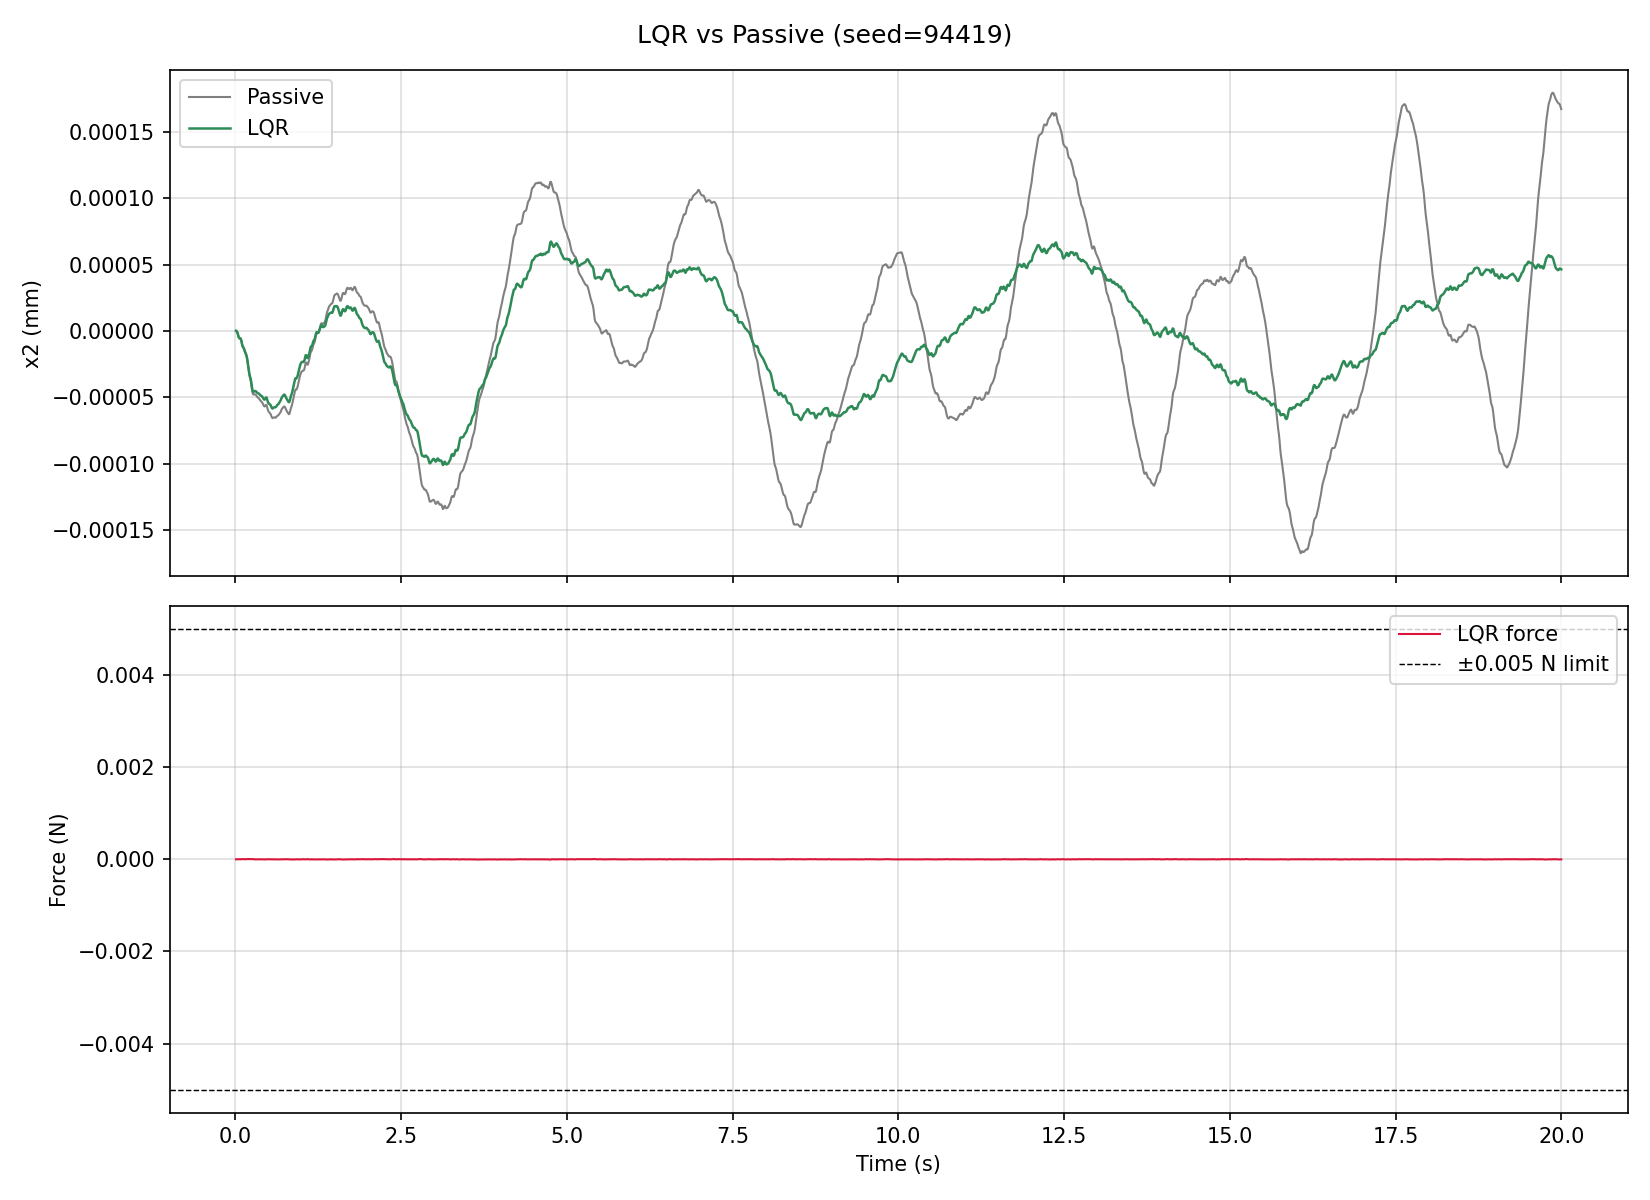
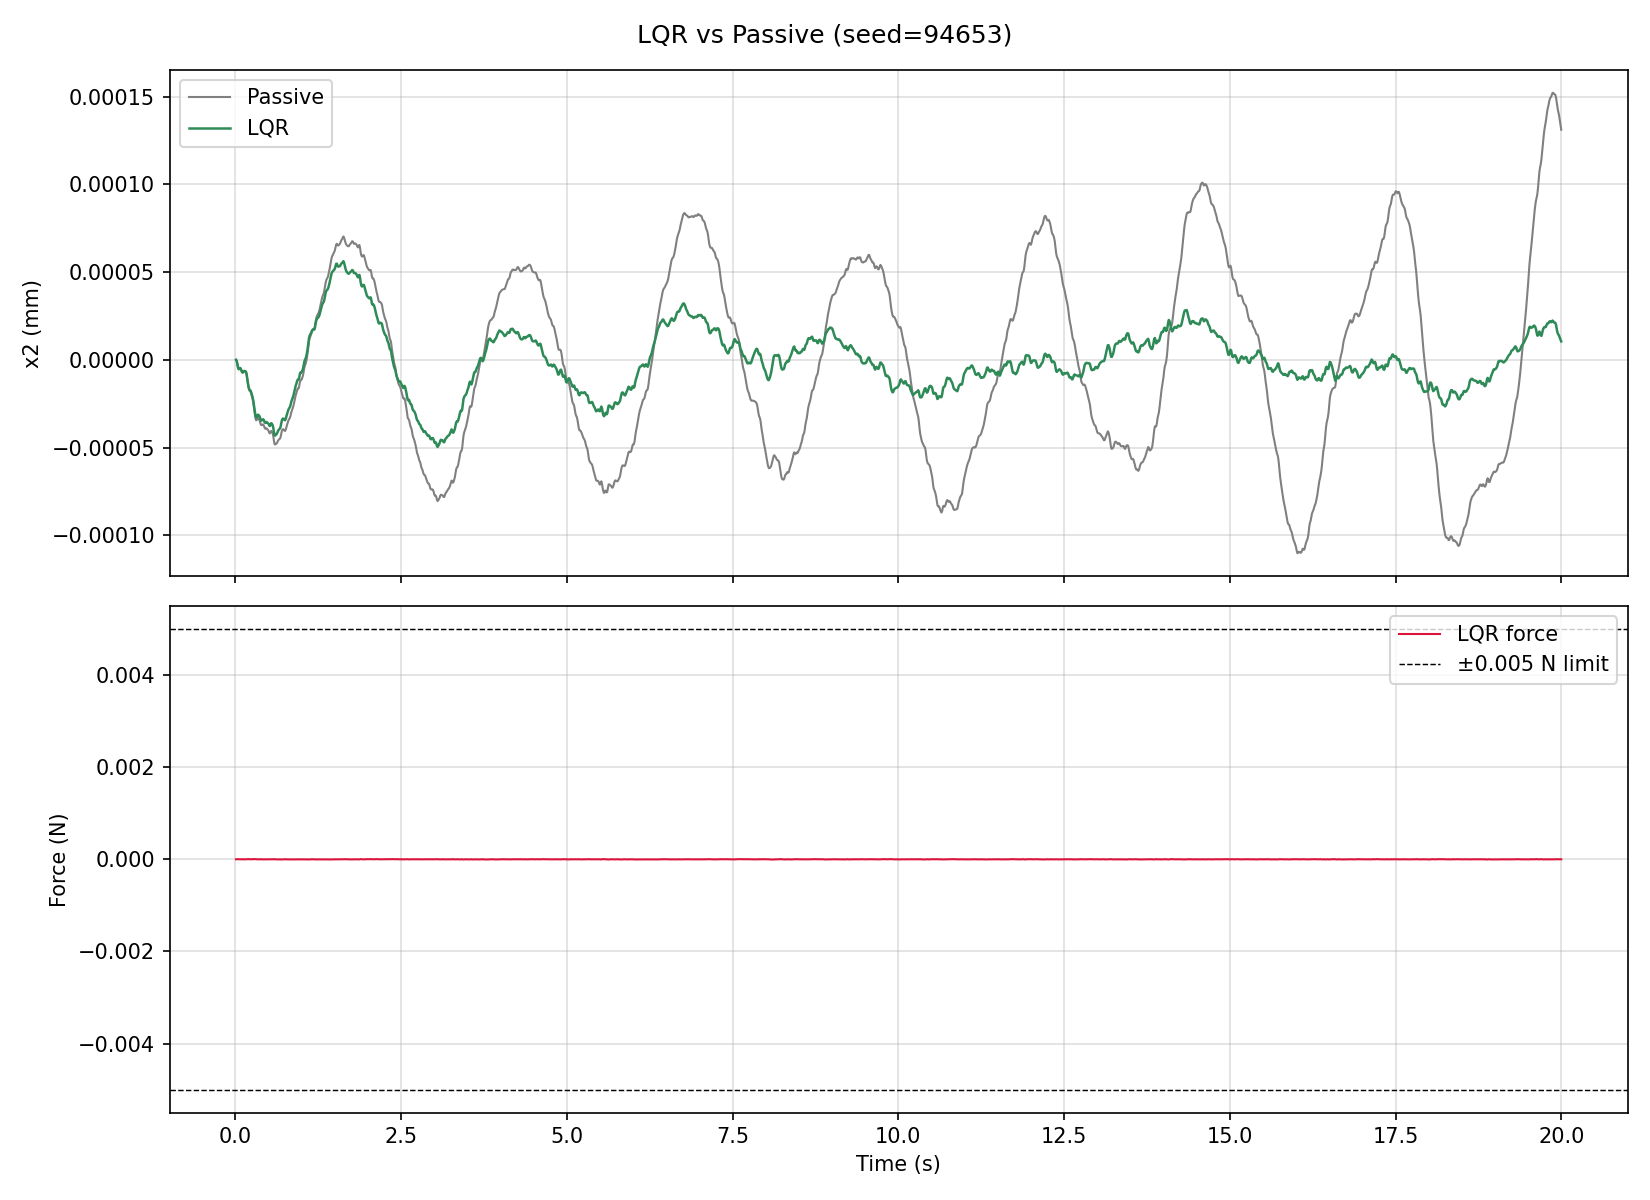
Restored RL stack from 56fd47e

diff --git a/src/pendulum_sim/rl_env.py b/src/pendulum_sim/rl_env.py
@@ -6,7 +6,6 @@ import gymnasium as gym
 from gymnasium import spaces
 import numpy as np
 
-import pendulum_sim.rl_config as rl_cfg
 from pendulum_sim.physics import L1, L2, Q_FACTOR, equations_of_motion, omega0
 from pendulum_sim.rl_config import (
     BAND_HIGH_MAX_HZ,
@@ -22,6 +21,7 @@ from pendulum_sim.rl_config import (
     REWARD_BASELINE_EPS,
     REWARD_FFT_WINDOW,
     REWARD_MIN_BASELINE,
+    REWARD_SCALE,
     STABILITY_MAX_RATIO,
 )
 from pendulum_sim.rl_helpers import (
@@ -31,12 +31,23 @@ from pendulum_sim.rl_helpers import (
     sample_noise_sequence,
 )
 
-# Backward-compatible fallback if local branch misses this config symbol.
-REWARD_CTRL_REF_ASD_CFG = float(getattr(rl_cfg, "REWARD_CTRL_REF_ASD", 1e-6))
-
 
 def _band_rms(signal: np.ndarray, dt: float, fmin: float, fmax: float) -> float:
-    """Return band-limited RMS via one-sided FFT bins."""
+    """Return band-limited RMS via one-sided FFT bins.
+
+    The mean is subtracted before the FFT. This is correct because:
+    - The 0–5 Hz displacement band uses fmin=0, which includes the f=0 bin.
+      The f=0 FFT coefficient equals N × mean(signal), so without mean
+      subtraction a tiny DC offset creates an enormous spike that dominates
+      the RMS and destabilises the reward gradient. The agent would exploit
+      this by applying constant force (zero cost in 10–30 Hz band) to fight
+      perceived DC drift, causing actuator saturation.
+    - For the 10–30 Hz control band, the DC force is zero anyway, so mean
+      subtraction has no effect there.
+    - The DC offset seen in earlier training runs was an artifact of the
+      zero-force local minimum, not a physics problem requiring a code fix.
+      It is addressed by the PPO hyperparameter changes (LOG_STD_INIT, ENT_COEF).
+    """
     if signal.size < 8:
         return 0.0
     x = np.asarray(signal, dtype=float) - float(np.mean(signal))
@@ -54,8 +65,13 @@ def _baseline_displacement_from_accel(
 ) -> float:
     """Estimate passive pendulum displacement RMS from ground acceleration spectrum.
 
-    Uses linearized pendulum transfer function:
-        x(ω) = a(ω) / sqrt((ω0² - ω²)² + (ω*ω0/Q)²)
+    Uses the linearised single-pendulum transfer function:
+
+        x_mirror(ω) = a(ω) / sqrt((ω_n² - ω²)² + (ω·ω_n/Q)²)
+
+    NOT the rigid-body formula x = a/ω², which overestimates passive displacement
+    by ~24x at 0.1 Hz and kills the reward gradient (err_ratio → 0.04).
+    This function gives err_ratio ≈ 1 for passive performance by construction.
     """
     if noise_acc.size < 8:
         return REWARD_BASELINE_EPS
@@ -68,7 +84,9 @@ def _baseline_displacement_from_accel(
         return REWARD_BASELINE_EPS
 
     omega = 2.0 * np.pi * freqs[mask]
-    tf_denom = np.sqrt((omega0**2 - omega**2) ** 2 + (omega * omega0 / Q_FACTOR) ** 2)
+    tf_denom = np.sqrt(
+        (omega0**2 - omega**2) ** 2 + (omega * omega0 / Q_FACTOR) ** 2
+    )
     tf_denom = np.maximum(tf_denom, 1e-12)
 
     fft_x = fft_a[mask] / tf_denom
@@ -83,7 +101,6 @@ class LIGOPendulumEnv(gym.Env):
         super().__init__()
         self.action_space = spaces.Box(low=-5.0, high=5.0, shape=(1,), dtype=np.float32)
         self.observation_space = spaces.Box(low=-np.inf, high=np.inf, shape=(4,), dtype=np.float32)
-
         self.dt = DT
         self.state = None
         self.current_step = 0
@@ -100,10 +117,35 @@ class LIGOPendulumEnv(gym.Env):
         return build_normalized_obs(self.state)
 
     def _compute_reward(self) -> float:
-        """Only the requested reward terms:
-        1) 0–5 Hz displacement minimization
-        2) 10–30 Hz force minimization
-        3) 5–10 Hz stability cost beyond 3x baseline
+        """Frequency-domain additive reward with stability guard.
+
+        Three independent terms — displacement and control gradients do not
+        interfere with each other, which prevents the zero-force local minimum
+        that arises from the fully multiplicative form.
+
+        1) Low-band (0–5 Hz): penalise x2 displacement RMS relative to passive
+           baseline.  err_ratio ≈ 1 at passive performance → -log1p(1) ≈ -0.693.
+           err_ratio < 1 (improvement) → less negative.
+
+        2) High-band (10–30 Hz): penalise control force RMS relative to F_MAX.
+           Pushes the agent to achieve suppression with minimal high-freq actuation.
+
+        3) Mid-band (5–10 Hz): stability guard — penalise if x2 exceeds
+           STABILITY_MAX_RATIO × passive baseline in this band.
+
+        Formula:
+            reward = REWARD_SCALE * (
+                -log1p(err_ratio²)
+                - log1p(ctrl_ratio²)
+                - stability_cost
+            )
+
+        Additive structure means each term has an independent gradient:
+        - Reducing displacement always improves the first term, regardless of
+          what the control term is doing.
+        - Reducing high-freq force always improves the second term.
+        - The agent cannot escape by zeroing force: zero force gives
+          err_ratio ≈ 1, so the first term is still -0.693, not 0.
         """
         n = min(len(self.x2_hist), REWARD_FFT_WINDOW)
         if n < 32:
@@ -117,16 +159,16 @@ class LIGOPendulumEnv(gym.Env):
         mid_x2 = _band_rms(x2, self.dt, BAND_MID_MIN_HZ, BAND_MID_MAX_HZ)
 
         err_ratio = low_x2 / max(self.baseline_low, REWARD_MIN_BASELINE, REWARD_BASELINE_EPS)
-        ctrl_ratio = high_u / max(REWARD_CTRL_REF_ASD_CFG, REWARD_BASELINE_EPS)
+        ctrl_ratio = high_u / max(F_MAX, REWARD_BASELINE_EPS)
 
-        # Required multiplicative form.
-        reward = -np.log1p(err_ratio**2) * np.log1p(ctrl_ratio**2)
+        # Additive: each term has an independent gradient.
+        reward = -np.log1p(err_ratio**2) - np.log1p(ctrl_ratio**2)
 
         mid_ratio = mid_x2 / max(self.baseline_mid, REWARD_MIN_BASELINE, REWARD_BASELINE_EPS)
         excess = max(0.0, mid_ratio / max(STABILITY_MAX_RATIO, 1e-9) - 1.0)
         stability_cost = np.log1p(excess**2)
 
-        return float(reward - stability_cost)
+        return float(REWARD_SCALE * (reward - stability_cost))
 
     def reset(self, seed=None, options=None):
         super().reset(seed=seed)
@@ -136,7 +178,6 @@ class LIGOPendulumEnv(gym.Env):
         self.state = np.array(
             options.get("initial_state", np.zeros(4, dtype=np.float32)), dtype=np.float32
         )
-
         self.current_step = 0
         self.x2_hist = []
         self.force_hist = []
@@ -151,6 +192,7 @@ class LIGOPendulumEnv(gym.Env):
         else:
             self.noise_seq = np.zeros(N_STEPS + 10, dtype=np.float32)
 
+        # Baselines use the pendulum TF, not rigid-body formula.
         self.baseline_low = _baseline_displacement_from_accel(
             self.noise_seq, self.dt, 0.0, BAND_LOW_MAX_HZ
         )

diff --git a/src/pendulum_sim/rl_config.py b/src/pendulum_sim/rl_config.py
@@ -27,7 +27,6 @@ BAND_HIGH_MAX_HZ = float(os.getenv("BAND_HIGH_MAX_HZ", "30.0"))
 REWARD_FFT_WINDOW = int(os.getenv("REWARD_FFT_WINDOW", "256"))
 REWARD_BASELINE_EPS = float(os.getenv("REWARD_BASELINE_EPS", "1e-12"))
 REWARD_MIN_BASELINE = float(os.getenv("REWARD_MIN_BASELINE", "1e-7"))
-REWARD_CTRL_REF_ASD = float(os.getenv("REWARD_CTRL_REF_ASD", "1e-6"))
 REWARD_SCALE = float(os.getenv("REWARD_SCALE", "0.01"))
 
 
@@ -47,8 +46,8 @@ PPO_N_STEPS = int(os.getenv("PPO_N_STEPS", "1024"))
 PPO_LEARNING_RATE = float(os.getenv("PPO_LEARNING_RATE", "1e-4"))
 PPO_GAMMA = float(os.getenv("PPO_GAMMA", "0.999"))
 PPO_GAE_LAMBDA = float(os.getenv("PPO_GAE_LAMBDA", "0.98"))
-PPO_ENT_COEF = float(os.getenv("PPO_ENT_COEF", "0.001"))     
-PPO_LOG_STD_INIT = float(os.getenv("PPO_LOG_STD_INIT", "-1.0"))  
+PPO_ENT_COEF = float(os.getenv("PPO_ENT_COEF", "0.0"))
+PPO_LOG_STD_INIT = float(os.getenv("PPO_LOG_STD_INIT", "-5.0"))
 
 # ---- retained run knobs ----
 NOISE_FREE_EP_PROB = REWARD.noise_free_ep_prob

diff --git a/src/pendulum_sim/rl_reporting.py b/src/pendulum_sim/rl_reporting.py
@@ -42,14 +42,13 @@ def write_rl_summary(eval_seed, rms_p, rms_r, improvement_x, reward_hist, run_re
 
 
 def maybe_refresh_docs() -> None:
-    """Run post-processing scripts relative to repository root."""
-    repo_root = Path(__file__).resolve().parents[2]
-    script = repo_root / "tools" / "tools_refresh_readme.py"
+    """Run lightweight post-processing scripts if present."""
+    script = Path("tools/tools_refresh_readme.py")
     if script.exists():
-        subprocess.run([sys.executable, str(script)], check=False, cwd=repo_root)
-    compare_script = repo_root / "tools" / "tools_compare_performance.py"
+        subprocess.run([sys.executable, str(script)], check=False)
+    compare_script = Path("tools/tools_compare_performance.py")
     if compare_script.exists():
-        subprocess.run([sys.executable, str(compare_script)], check=False, cwd=repo_root)
+        subprocess.run([sys.executable, str(compare_script)], check=False)
 
 
 def maybe_init_wandb():

diff --git a/src/pendulum_sim/rl_pipeline.py b/src/pendulum_sim/rl_pipeline.py
@@ -7,12 +7,8 @@ Why this file exists:
 """
 
 from pendulum_sim.rl_core import main
-from dotenv import load_dotenv
-load_dotenv(override=True)
 
 __all__ = ["main"]
-
-
 
 
 if __name__ == "__main__":

diff --git a/README.md b/README.md
@@ -236,10 +236,10 @@ git push
 - Interpretation: If improvement is < 1.0x, the policy is still underperforming passive isolation and reward scaling/actuation strategy should be revisited.
 
 ### Simple controls / LQR (latest run)
-- Seed: `94419`
+- Seed: `94653`
 - Passive RMS x2: `0.000 mm`
 - LQR RMS x2: `0.000 mm`
-- Improvement factor (passive/LQR): `1.84x`
+- Improvement factor (passive/LQR): `3.09x`
 - Interpretation: This is your near-equilibrium model-based baseline; RL should eventually match or exceed this over repeated seeds.
 
 ### Unified evaluation modes (same seed)
